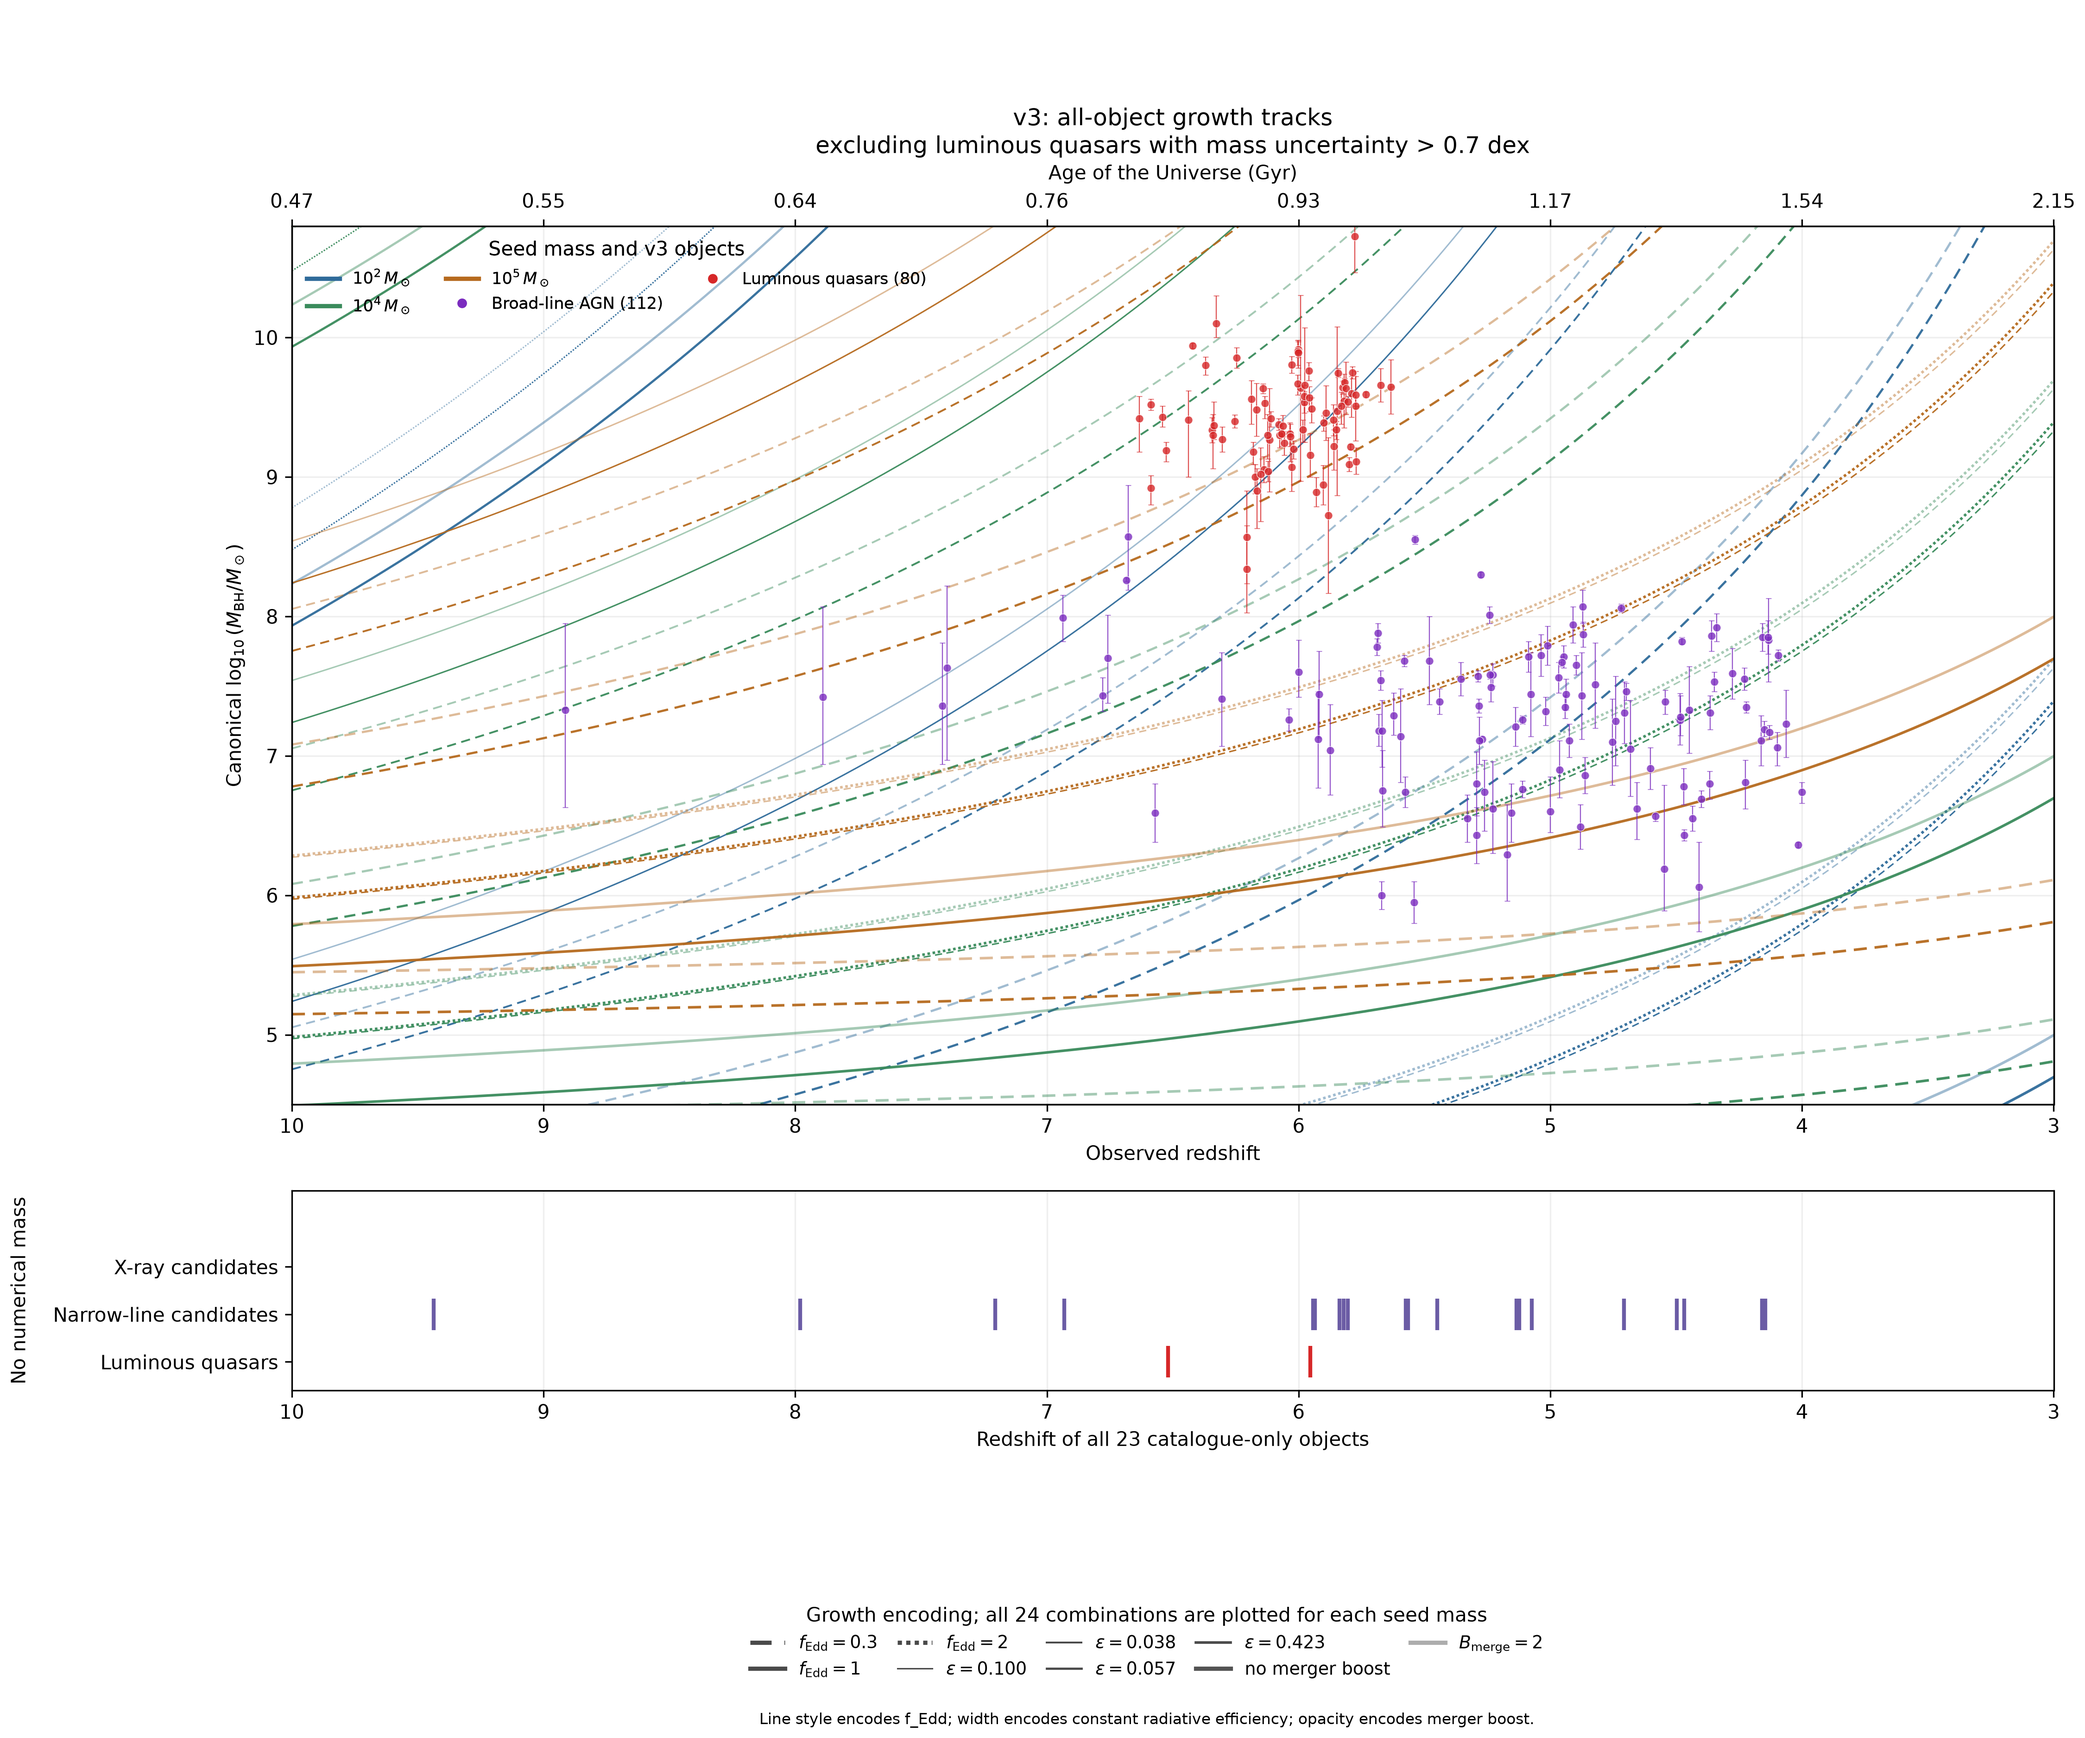
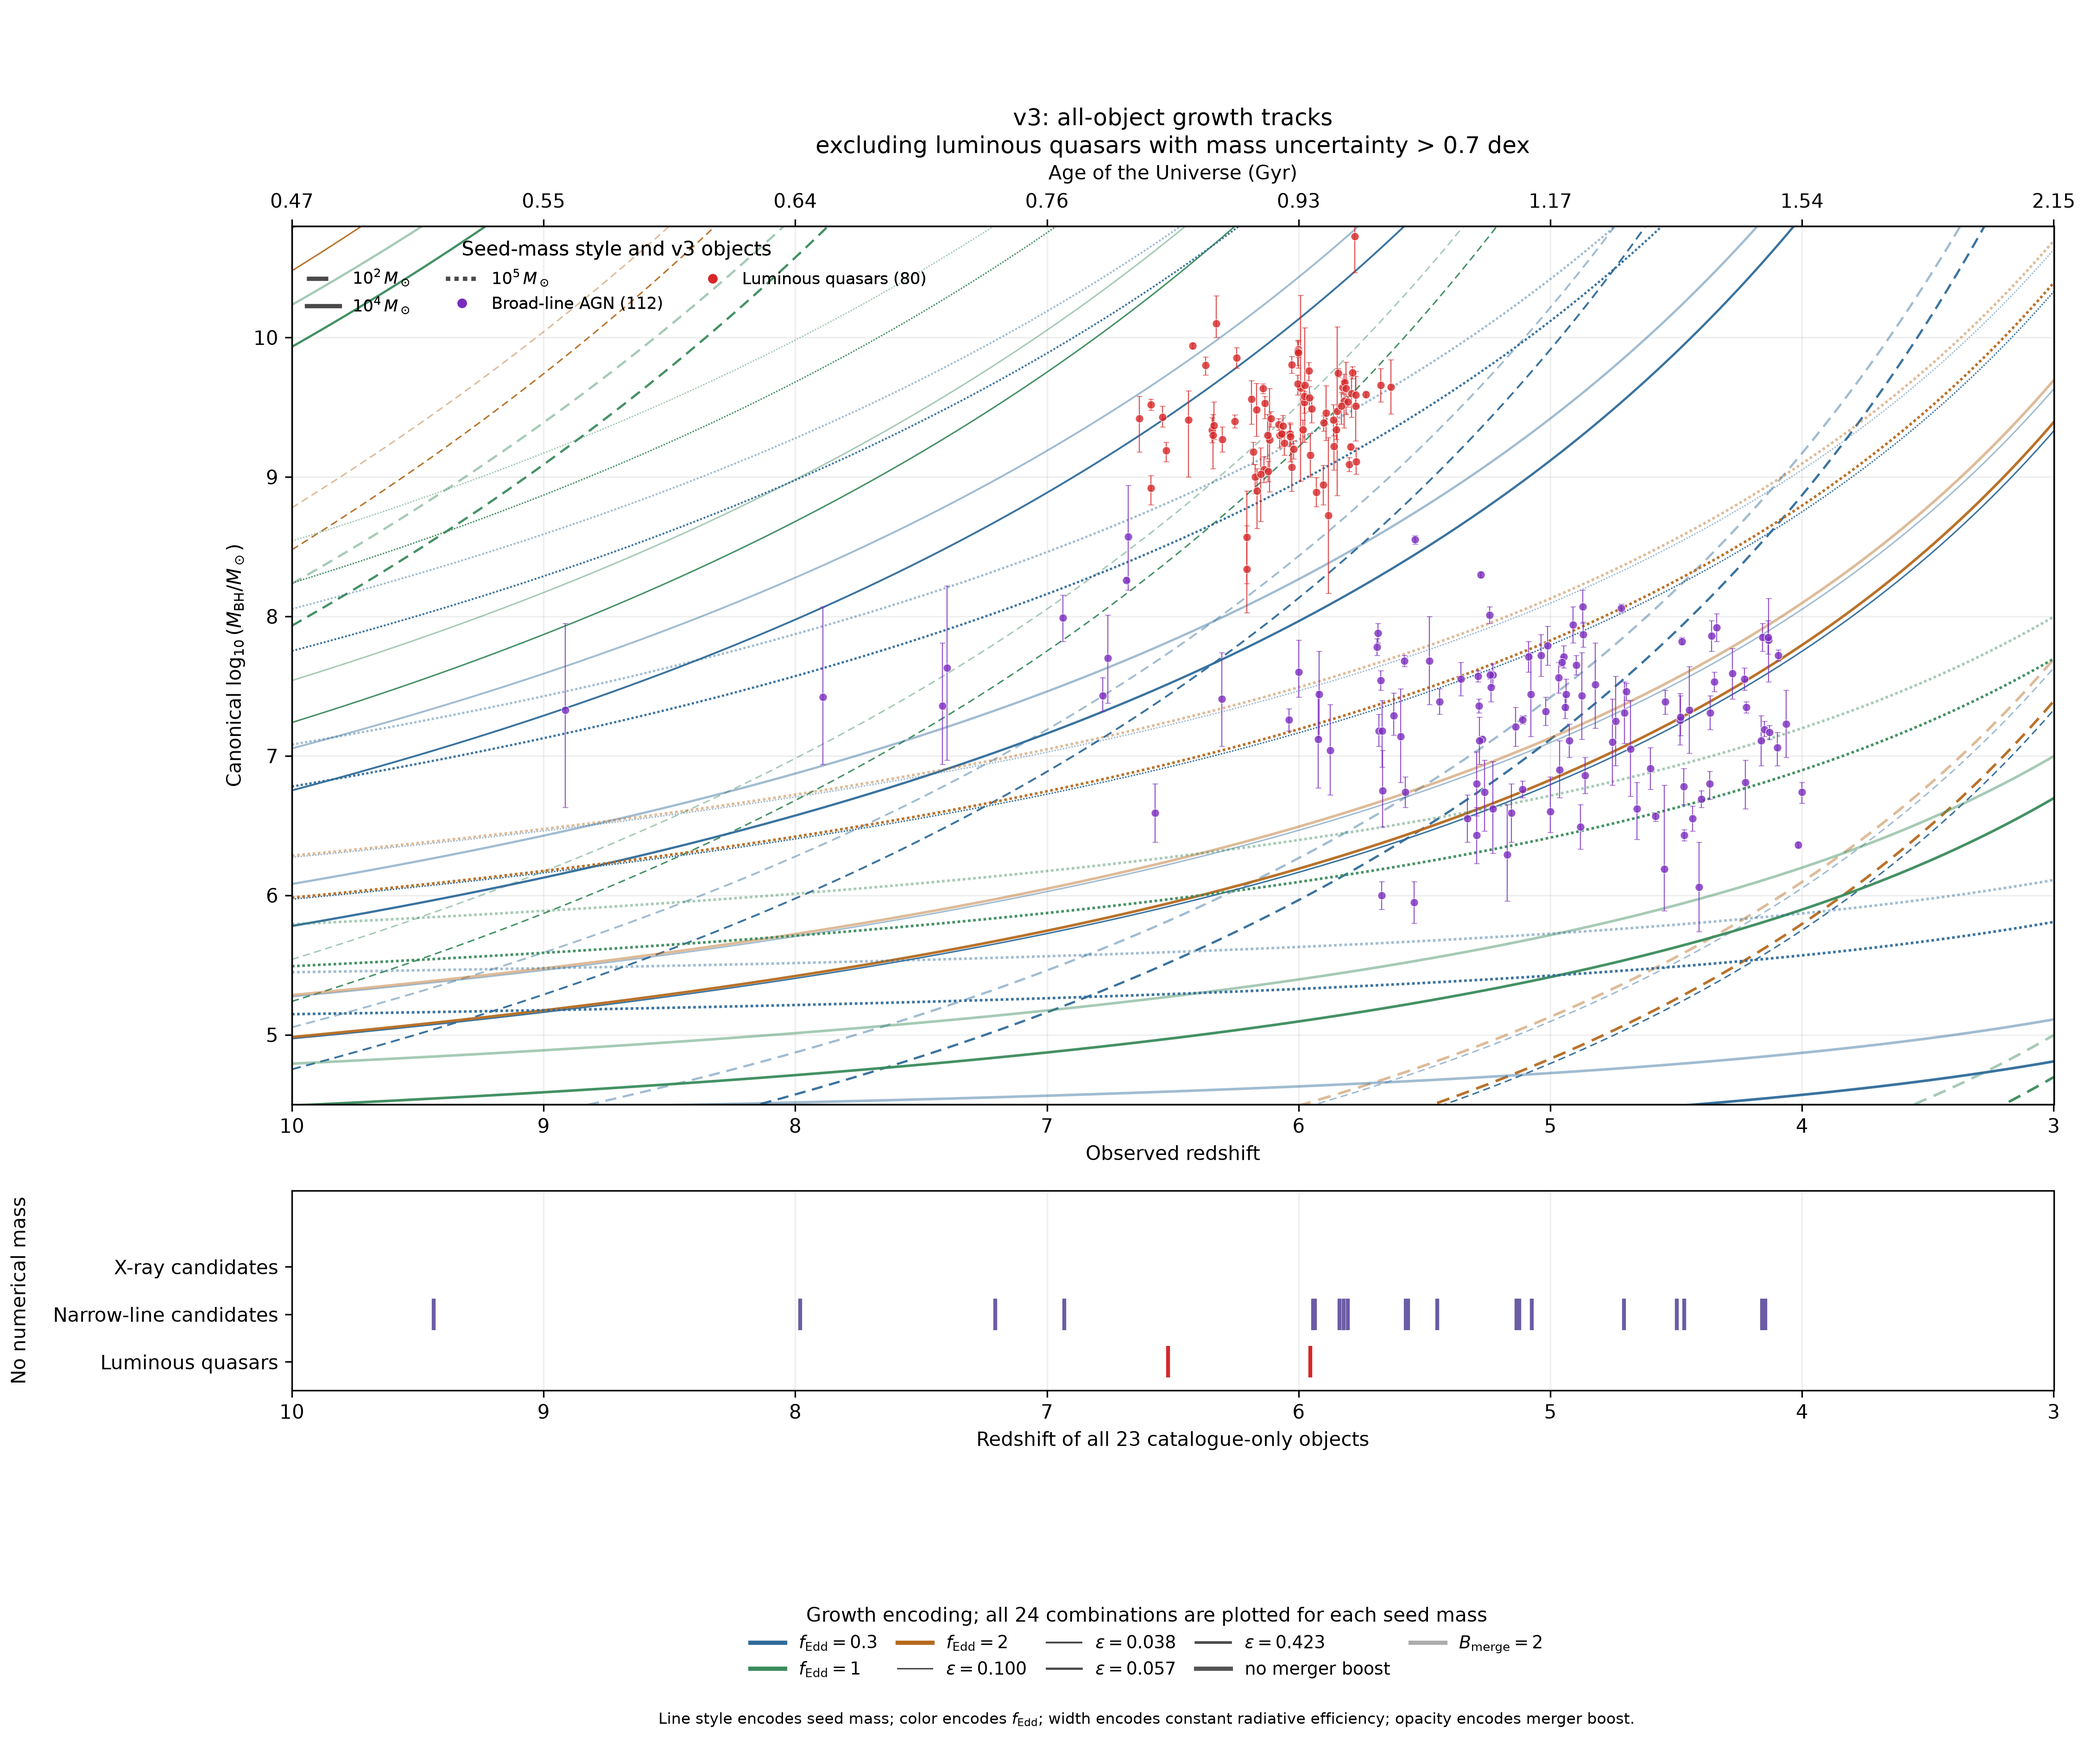
separate growth-track assumption encodings

diff --git a/src/internal/atlas.py b/src/internal/atlas.py
@@ -94,15 +94,15 @@ SEED_LABELS = {
     "pbh_origin_hypothesis": "PBH-origin hypothesis\n(assumed $10^2$–$10^6\\,M_\\odot$)",
 }
 
-FULL_TRACK_SEEDS = (
-    (2.0, r"$10^2\,M_\odot$", "#2F6B9A"),
-    (4.0, r"$10^4\,M_\odot$", "#3A8B5C"),
-    (5.0, r"$10^5\,M_\odot$", "#B66A1E"),
+FULL_TRACK_SEED_STYLES = (
+    (2.0, r"$10^2\,M_\odot$", (0, (5, 3))),
+    (4.0, r"$10^4\,M_\odot$", "-"),
+    (5.0, r"$10^5\,M_\odot$", (0, (1, 1))),
 )
-FULL_TRACK_FEDD_STYLES = (
-    (0.3, (0, (5, 3))),
-    (1.0, "-"),
-    (2.0, (0, (1, 1))),
+FULL_TRACK_FEDD_COLORS = (
+    (0.3, "#2F6B9A"),
+    (1.0, "#3A8B5C"),
+    (2.0, "#B66A1E"),
 )
 FULL_TRACK_EPSILON_CASES = (
     (0.1, r"$\epsilon=0.100$", 0.75),
@@ -115,8 +115,8 @@ FULL_TRACK_MERGER_CASES = (
     (2.0, r"$B_{\rm merge}=2$", 0.45),
 )
 FULL_TRACK_CURVE_COUNT = (
-    len(FULL_TRACK_SEEDS)
-    * len(FULL_TRACK_FEDD_STYLES)
+    len(FULL_TRACK_SEED_STYLES)
+    * len(FULL_TRACK_FEDD_COLORS)
     * len(FULL_TRACK_EPSILON_CASES)
     * len(FULL_TRACK_MERGER_CASES)
 )
@@ -290,8 +290,8 @@ def plot_full_assumption_growth_tracks(
     )
     fig.subplots_adjust(left=0.14, right=0.985, bottom=0.20, top=0.87, hspace=0.16)
 
-    for log_seed, _, color in FULL_TRACK_SEEDS:
-        for fedd, linestyle in FULL_TRACK_FEDD_STYLES:
+    for log_seed, _, linestyle in FULL_TRACK_SEED_STYLES:
+        for fedd, color in FULL_TRACK_FEDD_COLORS:
             for epsilon, _, linewidth in FULL_TRACK_EPSILON_CASES:
                 for boost, _, alpha in FULL_TRACK_MERGER_CASES:
                     ax.plot(
@@ -329,8 +329,8 @@ def plot_full_assumption_growth_tracks(
     age_axis.set_xticklabels([f"{age:.2f}" for age in cosmic_time_gyr(age_redshifts)])
     age_axis.set_xlabel("Age of the Universe (Gyr)", labelpad=7)
 
-    seed_handles = [Line2D([0], [0], color=color, lw=2.2, label=label)
-                    for _, label, color in FULL_TRACK_SEEDS]
+    seed_handles = [Line2D([0], [0], color="#4A4A4A", lw=2.2, ls=linestyle, label=label)
+                    for _, label, linestyle in FULL_TRACK_SEED_STYLES]
     class_handles = [
         Line2D([0], [0], marker="o", color="none", markerfacecolor=GROWTH_TRACK_COLORS[key],
                markeredgecolor="white", markersize=6,
@@ -338,15 +338,15 @@ def plot_full_assumption_growth_tracks(
         for key, group in eligible.groupby("object_class")
     ]
     object_legend = ax.legend(
-        handles=seed_handles + class_handles, title="Seed mass and v3 objects",
+        handles=seed_handles + class_handles, title="Seed-mass style and v3 objects",
         loc="upper left", ncols=3, frameon=False, fontsize=8.5,
     )
     ax.add_artist(object_legend)
 
     encoding_handles = [
-        Line2D([0], [0], color="#4A4A4A", lw=2.2, ls=linestyle,
+        Line2D([0], [0], color=color, lw=2.2,
                label=rf"$f_{{\rm Edd}}={fedd:g}$")
-        for fedd, linestyle in FULL_TRACK_FEDD_STYLES
+        for fedd, color in FULL_TRACK_FEDD_COLORS
     ] + [
         Line2D([0], [0], color="#4A4A4A", lw=linewidth, label=label)
         for _, label, linewidth in FULL_TRACK_EPSILON_CASES
@@ -374,7 +374,8 @@ def plot_full_assumption_growth_tracks(
     )
     fig.text(
         0.55, 0.008,
-        "Line style encodes f_Edd; width encodes constant radiative efficiency; "
+        r"Line style encodes seed mass; color encodes $f_{\rm Edd}$; "
+        "width encodes constant radiative efficiency; "
         "opacity encodes merger boost.",
         ha="center", fontsize=8,
     )

diff --git a/tests/test_scientific_claims.py b/tests/test_scientific_claims.py
@@ -10,9 +10,9 @@ import pandas as pd
 from src.internal.atlas import (
     FULL_TRACK_CURVE_COUNT,
     FULL_TRACK_EPSILON_CASES,
-    FULL_TRACK_FEDD_STYLES,
+    FULL_TRACK_FEDD_COLORS,
     FULL_TRACK_MERGER_CASES,
-    FULL_TRACK_SEEDS,
+    FULL_TRACK_SEED_STYLES,
     GROWTH_TRACK_AGE_TICKS,
     GROWTH_TRACK_COLORS,
     GROWTH_TRACK_REDSHIFT_LIMITS,
@@ -33,8 +33,16 @@ TABLES = ROOT / "results/v3/tables"
 
 class V3ScientificClaimTests(unittest.TestCase):
     def test_full_growth_track_assumption_grid_matches_historical_v1(self) -> None:
-        self.assertEqual(len(FULL_TRACK_SEEDS), 3)
-        self.assertEqual([item[0] for item in FULL_TRACK_FEDD_STYLES], [0.3, 1.0, 2.0])
+        self.assertEqual(len(FULL_TRACK_SEED_STYLES), 3)
+        self.assertEqual([item[0] for item in FULL_TRACK_FEDD_COLORS], [0.3, 1.0, 2.0])
+        self.assertEqual(
+            [item[2] for item in FULL_TRACK_SEED_STYLES],
+            [(0, (5, 3)), "-", (0, (1, 1))],
+        )
+        self.assertEqual(
+            [item[1] for item in FULL_TRACK_FEDD_COLORS],
+            ["#2F6B9A", "#3A8B5C", "#B66A1E"],
+        )
         self.assertEqual(len(FULL_TRACK_EPSILON_CASES), 4)
         self.assertEqual([item[0] for item in FULL_TRACK_MERGER_CASES], [1.0, 2.0])
         self.assertEqual(FULL_TRACK_CURVE_COUNT, 72)

diff --git a/docs/archive/project-history/highz_accretion_atlas_status.tex b/docs/archive/project-history/highz_accretion_atlas_status.tex
@@ -138,7 +138,9 @@ A separate
 \href{../../../results/v3/figures/v3_all_object_growth_tracks_full_assumptions.png}
 {comprehensive companion} preserves the historical v1 grid: three seed masses crossed with three
 $f_{\rm Edd}$ values, four constant efficiencies, and two merger boosts, for
-72 reference curves in total. It is an assumption comparison rather than a fit.
+72 reference curves in total. Seed mass uses line style, $f_{\rm Edd}$ uses
+color, efficiency uses line width, and merger boost uses opacity. It is an
+assumption comparison rather than a fit.
 An
 \href{../../../results/v3/figures/v3_all_object_growth_tracks_full_assumptions_uncertainty_filtered.png}
 {uncertainty-filtered counterpart} keeps those curves but excludes the four luminous quasars with a maximum

diff --git a/paper/highz_accretion_atlas_v3.tex b/paper/highz_accretion_atlas_v3.tex
@@ -127,7 +127,8 @@ A supplementary
 {full-assumption growth-track companion} preserves the historical v1 visual
 grid: three seed masses crossed with
 $\fedd=0.3,1,2$, four constant radiative efficiencies, and two merger boosts,
-for 72 reference curves in total. This denser view is an assumption comparison,
+for 72 reference curves in total. Seed mass is encoded by line style, $\fedd$
+by color, efficiency by line width, and merger boost by opacity. This denser view is an assumption comparison,
 not a fit or a demographic model.
 
 An additional

diff --git a/docs/archive/project-history/CONTRIBUTION_LEDGER.md b/docs/archive/project-history/CONTRIBUTION_LEDGER.md
@@ -1642,3 +1642,23 @@ For every future Codex contribution that changes repository files:
   a rebuilt, visually inspected status PDF were completed after the move.
 - **Status:** Complete and verified locally; included in the accompanying
   repository commit.
+
+### 2026-09-02 - Separate seed-mass and accretion-rate track encodings
+
+- **Objective:** Make the dense v3 full-assumption growth-track companions
+  easier to interpret by assigning seed mass and accretion rate to different
+  visual channels.
+- **Contribution:** Changed both full-assumption figures so the three seed
+  masses use dashed, solid, and dotted line styles, while the three
+  $f_{Edd}$ values use blue, green, and orange. Constant radiative efficiency
+  remains encoded by line width and merger boost by opacity. Updated figure
+  legends, inline encoding notes, regression tests, current documentation,
+  manuscript, and status report.
+- **Scientific/technical effect:** Visual encoding only. All 72 reference
+  curves, model parameters, object values, uncertainty selection, axes,
+  dimensions, margins, catalogue data, and scientific claims are unchanged.
+- **Validation:** Regenerated and visually inspected the complete and
+  uncertainty-filtered figures. Repository tests, provenance checks, version
+  verification, inventories, manifests, and rebuilt PDFs were run afterward.
+- **Status:** Complete and verified locally; included in the accompanying
+  repository commit.

diff --git a/README.md b/README.md
@@ -85,7 +85,9 @@ growth-eligible objects receive numerical panels; the other 23 receive explicit
 no-inference status panels. Growth tracks are retained only as combined
 catalogue-wide figures under `results/v3/figures/`; the full-assumption v3
 companion contains 72 curves spanning three seed masses, three $f_{Edd}$
-values, four efficiencies, and two merger boosts. Its uncertainty-filtered
+values, four efficiencies, and two merger boosts. Seed mass is encoded by line
+style and $f_{Edd}$ by color; efficiency remains encoded by line width and
+merger boost by opacity. Its uncertainty-filtered
 counterpart applies the explicit 0.7 dex cut only to luminous quasars, removing
 four extreme-error measurements while retaining every other numerical object
 and all 23 no-inference markers.

diff --git a/docs/current/v3-atlas.md b/docs/current/v3-atlas.md
@@ -18,6 +18,8 @@ catalogue strata. These are the canonical v3 files.
 2. `v3_all_object_growth_tracks_full_assumptions.png` — the same v3 objects
    against all 72 historical v1 reference curves: three seed masses crossed
    with three $f_{Edd}$ values, four constant efficiencies, and two merger boosts.
+   Seed mass uses line style, $f_{Edd}$ uses color, efficiency uses line width,
+   and merger boost uses opacity.
 3. `v3_all_object_growth_tracks_full_assumptions_uncertainty_filtered.png` —
    the same 72-curve view after excluding only the four luminous quasars whose
    maximum reported black-hole-mass uncertainty exceeds 0.7 dex. The excluded
